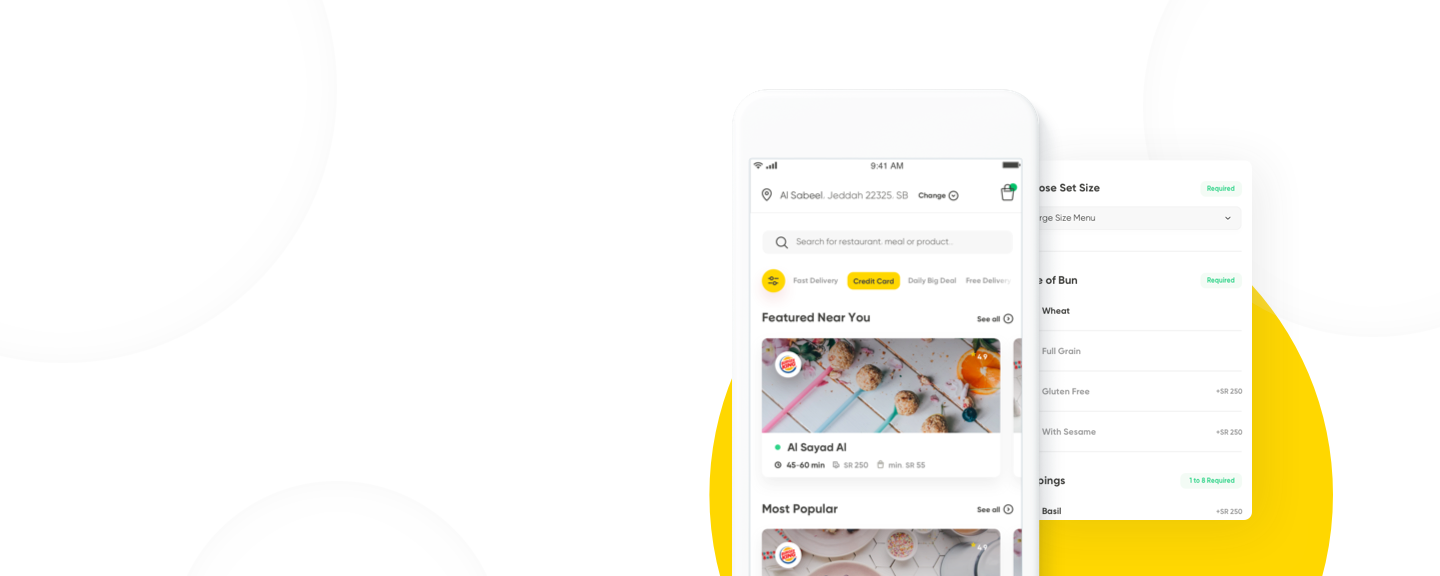
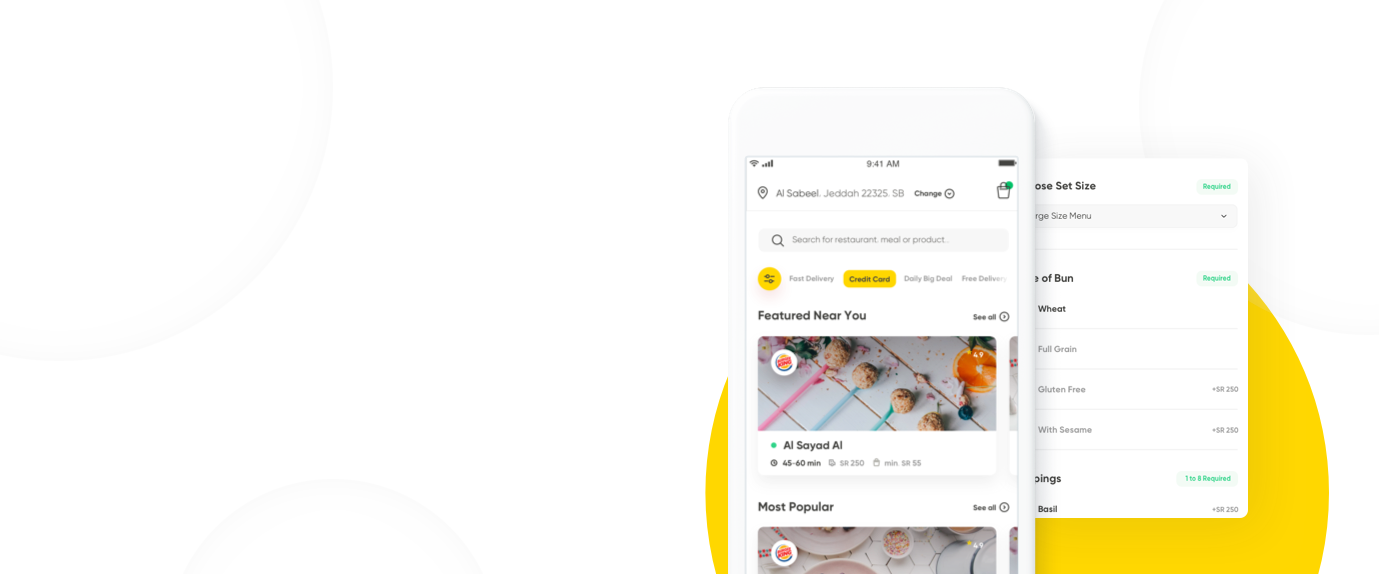
Adding responsiveness to medium devices

diff --git a/app/components/HomePage/Section/StyledSection.js b/app/components/HomePage/Section/StyledSection.js
@@ -1,5 +1,5 @@
 import styled from 'styled-components';
-import { flexBox } from 'utils/styles';
+import { flexBox, mediaMedium, mediaLess } from 'utils/styles';
 import PhoneVisual from 'images/phone-visual.png';
 import { hintOfRed } from 'utils/colors';
 
@@ -8,7 +8,7 @@ const StyledSection = styled.div`
     direction === 'reversed' ? 'row-reverse' : 'row'};
   ${flexBox({
     align: 'flex-start',
-    justify: 'center',
+    justify: 'space-between',
   })};
   width: 100%;
   background-image: url(${({ background }) =>
@@ -17,11 +17,21 @@ const StyledSection = styled.div`
     background ? hintOfRed : 'transparent'};
   background-position: right bottom;
   background-size: 100%;
-  margin-top: 50px;
-  padding: ${({ background }) => (background ? '10% 3%' : '0')};
+  margin-top: 80px;
+  padding: ${({ background }) => (background ? '9% 0' : '0')};
   &:nth-of-type(2) {
     margin-top: 240px;
   }
+  ${mediaMedium`
+    &:nth-of-type(2) {
+      margin-top: 150px;
+    }
+  `};
+  ${mediaLess(560)`
+    &:nth-of-type(2) {
+      margin-top: 150px;
+    }
+  `};
 `;
 
 export default StyledSection;

diff --git a/app/containers/App/StyledApp.js b/app/containers/App/StyledApp.js
@@ -1,6 +1,8 @@
 import styled from 'styled-components';
-import { flexBox, mediaMedium } from 'utils/styles';
+import { flexBox, mediaMedium, mediaSmall } from 'utils/styles';
 import Background from 'images/background.png';
+import BackgroundMobile from 'images/background-mobile.png';
+import BackgroundMedium from 'images/background-medium.png';
 
 const StyledApp = styled.div`
   ${flexBox({
@@ -11,8 +13,14 @@ const StyledApp = styled.div`
   background-color: white;
   font-family: 'HungerStation-Regular', sans-serif;
   background-image: url(${Background});
+  background-position-x: center;
   ${mediaMedium`
     padding: 0 10px;
+    background-image: url(${BackgroundMedium});
+  `};
+  ${mediaSmall`
+    background-image: url(${BackgroundMobile});
+    background-size: 95%;
   `};
 `;
 

diff --git a/app/components/SectionDetails/StyledBox.js b/app/components/SectionDetails/StyledBox.js
@@ -1,17 +1,24 @@
 import styled from 'styled-components';
-import { flexBox } from 'utils/styles';
+import { flexBox, mediaLarge, mediaLess } from 'utils/styles';
 
 const StyledBox = styled.div`
   ${flexBox(
     { align: 'flex-start', justify: 'flex-start', direction: 'column' },
     `
-    flex: 0.4;
+    width: 550px;
     padding: 57px 36px 50px 103px;
     z-index: 100;
     background: white;
     border-radius: 8px;
+    border: 2px solid blue;
   `,
   )};
+  ${mediaLarge`
+    width: 400px;
+  `};
+  ${mediaLess(825)`
+    width: 90%;
+  `};
 `;
 
 export default StyledBox;

diff --git a/app/components/HomePage/Section/Graphics.js b/app/components/HomePage/Section/Graphics.js
@@ -1,14 +1,21 @@
 import styled from 'styled-components';
-import { flexBox } from 'utils/styles';
+import { flexBox, mediaLarge, mediaLess } from 'utils/styles';
 
 const Graphics = styled.div`
   ${flexBox(
-    { align: 'center', justify: 'flex-start', direction: 'column' },
+    { align: 'flex-end', justify: 'flex-start', direction: 'column' },
     `
-    flex: 0.4;
+    width: 550px;
     position: relative;
+    border: 2px solid red;
   `,
   )};
+  ${mediaLarge`
+    width: 400px;
+  `};
+  ${mediaLess(825)`
+    width: 10%;
+  `};
 `;
 
 export default Graphics;

diff --git a/app/components/HomePage/HowItWorksSection/StyledFeatures.js b/app/components/HomePage/HowItWorksSection/StyledFeatures.js
@@ -2,7 +2,7 @@ import styled from 'styled-components';
 import { flexBox, mediaMedium } from 'utils/styles';
 
 const StyledFeatures = styled.div`
-  ${flexBox({ justify: 'space-between' }, `margin-top: 100px;`)};
+  ${flexBox({ justify: 'space-between' }, `margin-top: 50px;`)};
   ${mediaMedium`
     flex-direction: column;
   `};

diff --git a/app/utils/styles.js b/app/utils/styles.js
@@ -27,8 +27,9 @@ const getMedia = dimension => size => (...args) => css`
   `};
 `;
 
-const mediaLess = getMedia('lessThan');
+export const mediaLess = getMedia('lessThan');
 export const mediaSmall = mediaLess(560);
 export const mediaMedium = mediaLess(850);
+export const mediaLarge = mediaLess(1130);
 
 export default styles;

diff --git a/app/components/HomePage/WhyHSSection/index.js b/app/components/HomePage/WhyHSSection/index.js
@@ -7,12 +7,6 @@ import ImageWrapper from './ImageWrapper';
 
 import Section from '../Section';
 
-// const WhyHS = () => (
-//   <StyledSection>
-
-//   </StyledSection>
-// );
-
 const WhyHSSection = () => (
   <Section
     direction="reversed"

diff --git a/app/components/HomePage/Image.js b/app/components/HomePage/Image.js
@@ -3,6 +3,7 @@ import styled from 'styled-components';
 const Image = styled.img`
   border-radius: 8px;
   width: auto;
+  margin-bottom: 20px;
 `;
 
 export default Image;

diff --git a/app/components/HomePage/SearchBar/StyledBar.js b/app/components/HomePage/SearchBar/StyledBar.js
@@ -20,6 +20,7 @@ const StyledBar = styled.span`
     border: 0;
     width: 100%;
     align-self: center;
+    background-color: transparent;
   `};
 `;
 

diff --git a/app/components/HomePage/SearchBar/DropdownInput/StyledDropdown.js b/app/components/HomePage/SearchBar/DropdownInput/StyledDropdown.js
@@ -24,6 +24,7 @@ const StyledDropdown = styled.span`
     &:first-of-type {
       margin-left: 0;
     }
+    background-color: white;
   `};
 `;
 
